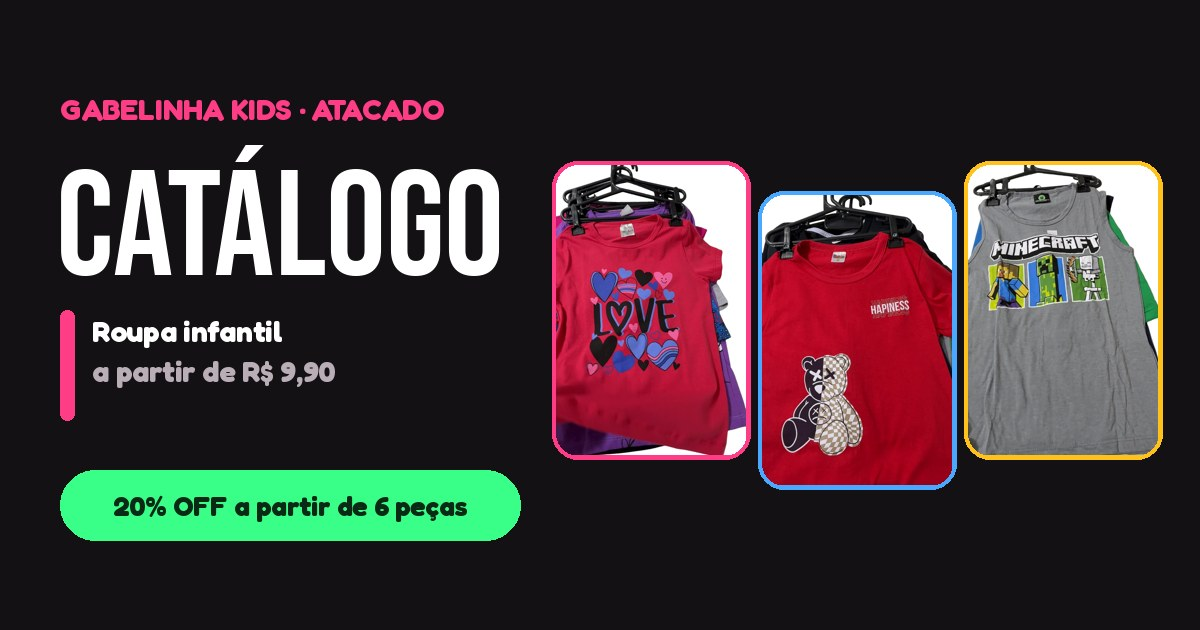
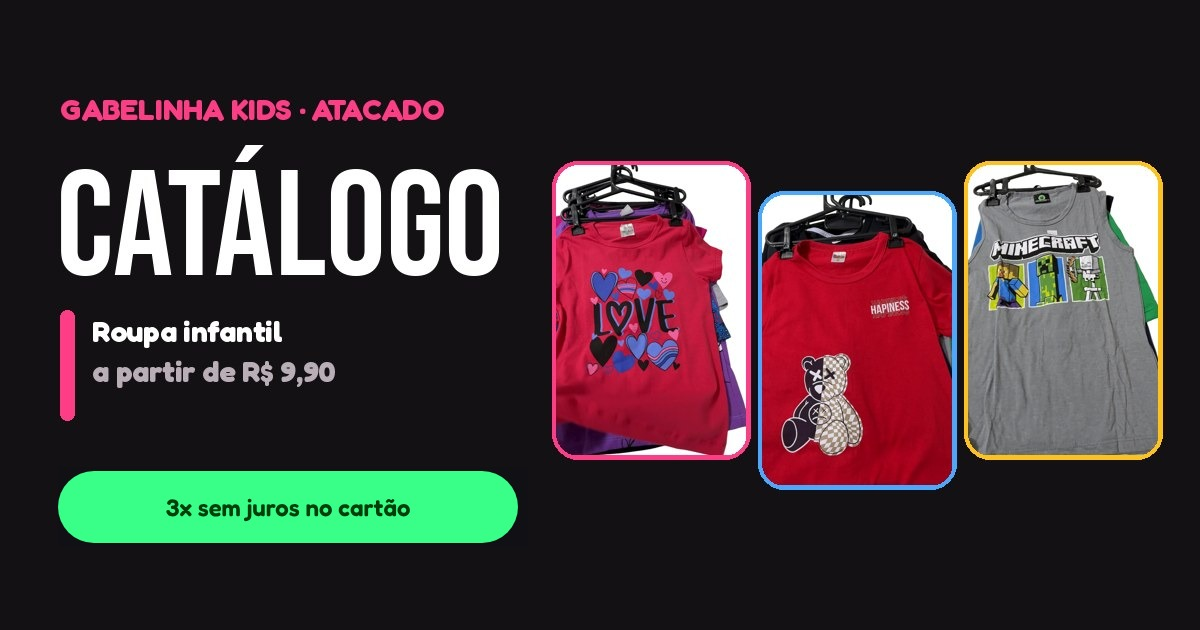
Tira 20% OFF do site (preços normais)
Claude-Session: https://claude.ai/code/session_01EknqieTDXBiQqfvFvT6ttM

diff --git a/index.html b/index.html
@@ -221,7 +221,6 @@ body::before{background:var(--fundo)}
   <div class="marca">Gabelinha Kids · Atacado</div>
   <div class="titulo"><img class="boneca" src="midia/4f103287f37e8aac3c042be2a14f2d0a.png" alt="" width="64" height="64"><h1>Catálogo</h1></div>
   <div class="data" id="data">Atualizado hoje</div>
-  <div class="oferta20"><b>20% OFF</b><span>comprando a partir de 6 itens (sortidos)</span></div>
 </div></header>
 <div class="g" id="corpo"><div class="miolo">
   <div class="folha">
@@ -238,9 +237,8 @@ body::before{background:var(--fundo)}
       <a class="btn" href="https://wa.me/5551980640448?text=Oi!%20Vi%20o%20cat%C3%A1logo.%20Procuro%20(tipo%20de%20pe%C3%A7a)%3A%20%20%20Tamanho%3A%20" target="_blank" rel="noopener">💬 Consultar no privado</a>
     </div>
     <div class="fim20">
-      <div class="grande">20% OFF a partir de 6 peças</div>
+      <div class="grande">3x sem juros no cartão</div>
       <p>Podem ser peças sortidas, de modelos e categorias diferentes.</p>
-      <p>E ainda 3x sem juros no cartão.</p>
     </div>
     <div class="entrega">
       <div class="grande">Entrega</div>
@@ -356,7 +354,7 @@ function desenhar(){
     (editando ? `<div class="ed ed-grupo" data-grupo="${DADOS.grupos.indexOf(x.g)}"><label>Nome da categoria<input data-campo="grupo" value="${esc(x.g.nome)}"></label></div>` : "") +
     x.cats.map((c, n) => {
       const preco = c.preco == null ? `<div class="preco"><b>Consulte</b></div>`
-        : `<div class="preco"><b>${real(c.preco)}</b><span>${real(off(c.preco))} <i>20% OFF</i></span></div>`;
+        : `<div class="preco"><b>${real(c.preco)}</b></div>`;
       return (n ? `<div class="divisor" aria-hidden="true"></div>` : "") + `<article class="sub ${esc(c.cor)}" id="${esc(c.id)}">
         <div class="sub-cab"><h3>${inteiro(c.nome)}</h3><div class="linha"><span class="tag">${esc(tamTxt(c)).replace(" · ", "<br>")}</span>${preco}</div></div>
         ${editando ? editor(c) : ""}
@@ -596,7 +594,7 @@ vitrine.addEventListener("input", e => {
   const art = e.target.closest(".sub");
   art.querySelector("h3").textContent = c.nome;
   art.querySelector(".tag").textContent = tamTxt(c);
-  art.querySelector(".preco").innerHTML = c.preco == null ? "<b>Consulte</b>" : `<b>${real(c.preco)}</b><span>${real(off(c.preco))} <i>20% OFF</i></span>`;
+  art.querySelector(".preco").innerHTML = c.preco == null ? "<b>Consulte</b>" : `<b>${real(c.preco)}</b>`;
 });
 // Ao sair do campo, redesenha (reordena por preço, troca a cor) e volta para a mesma peça.
 vitrine.addEventListener("change", async e => {
